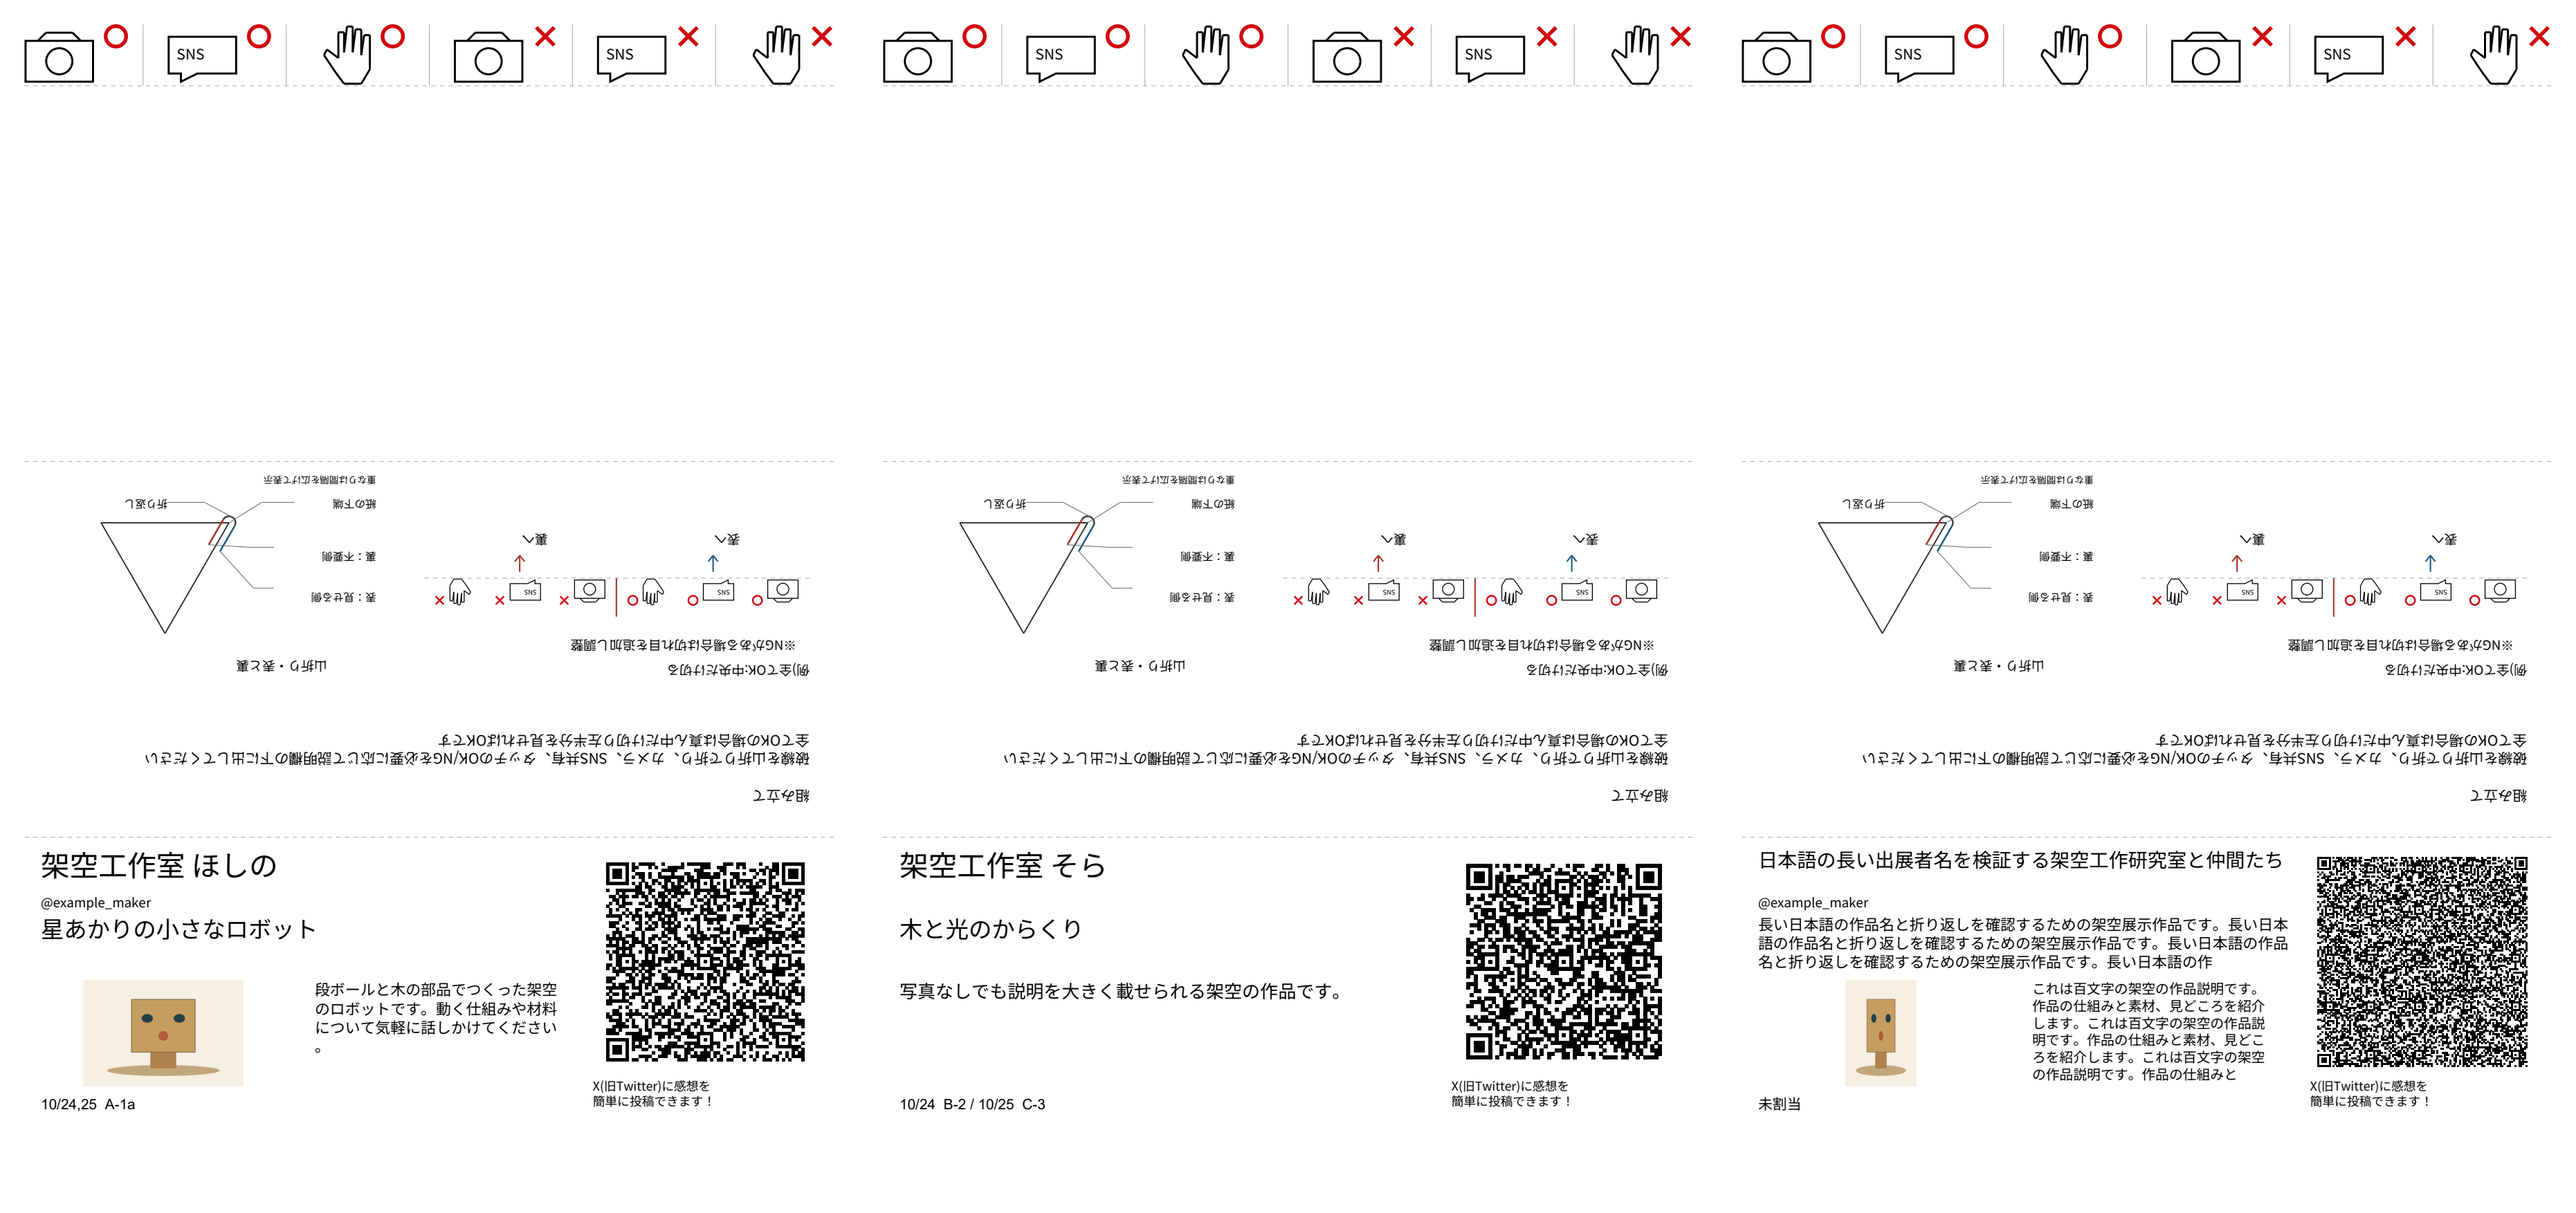
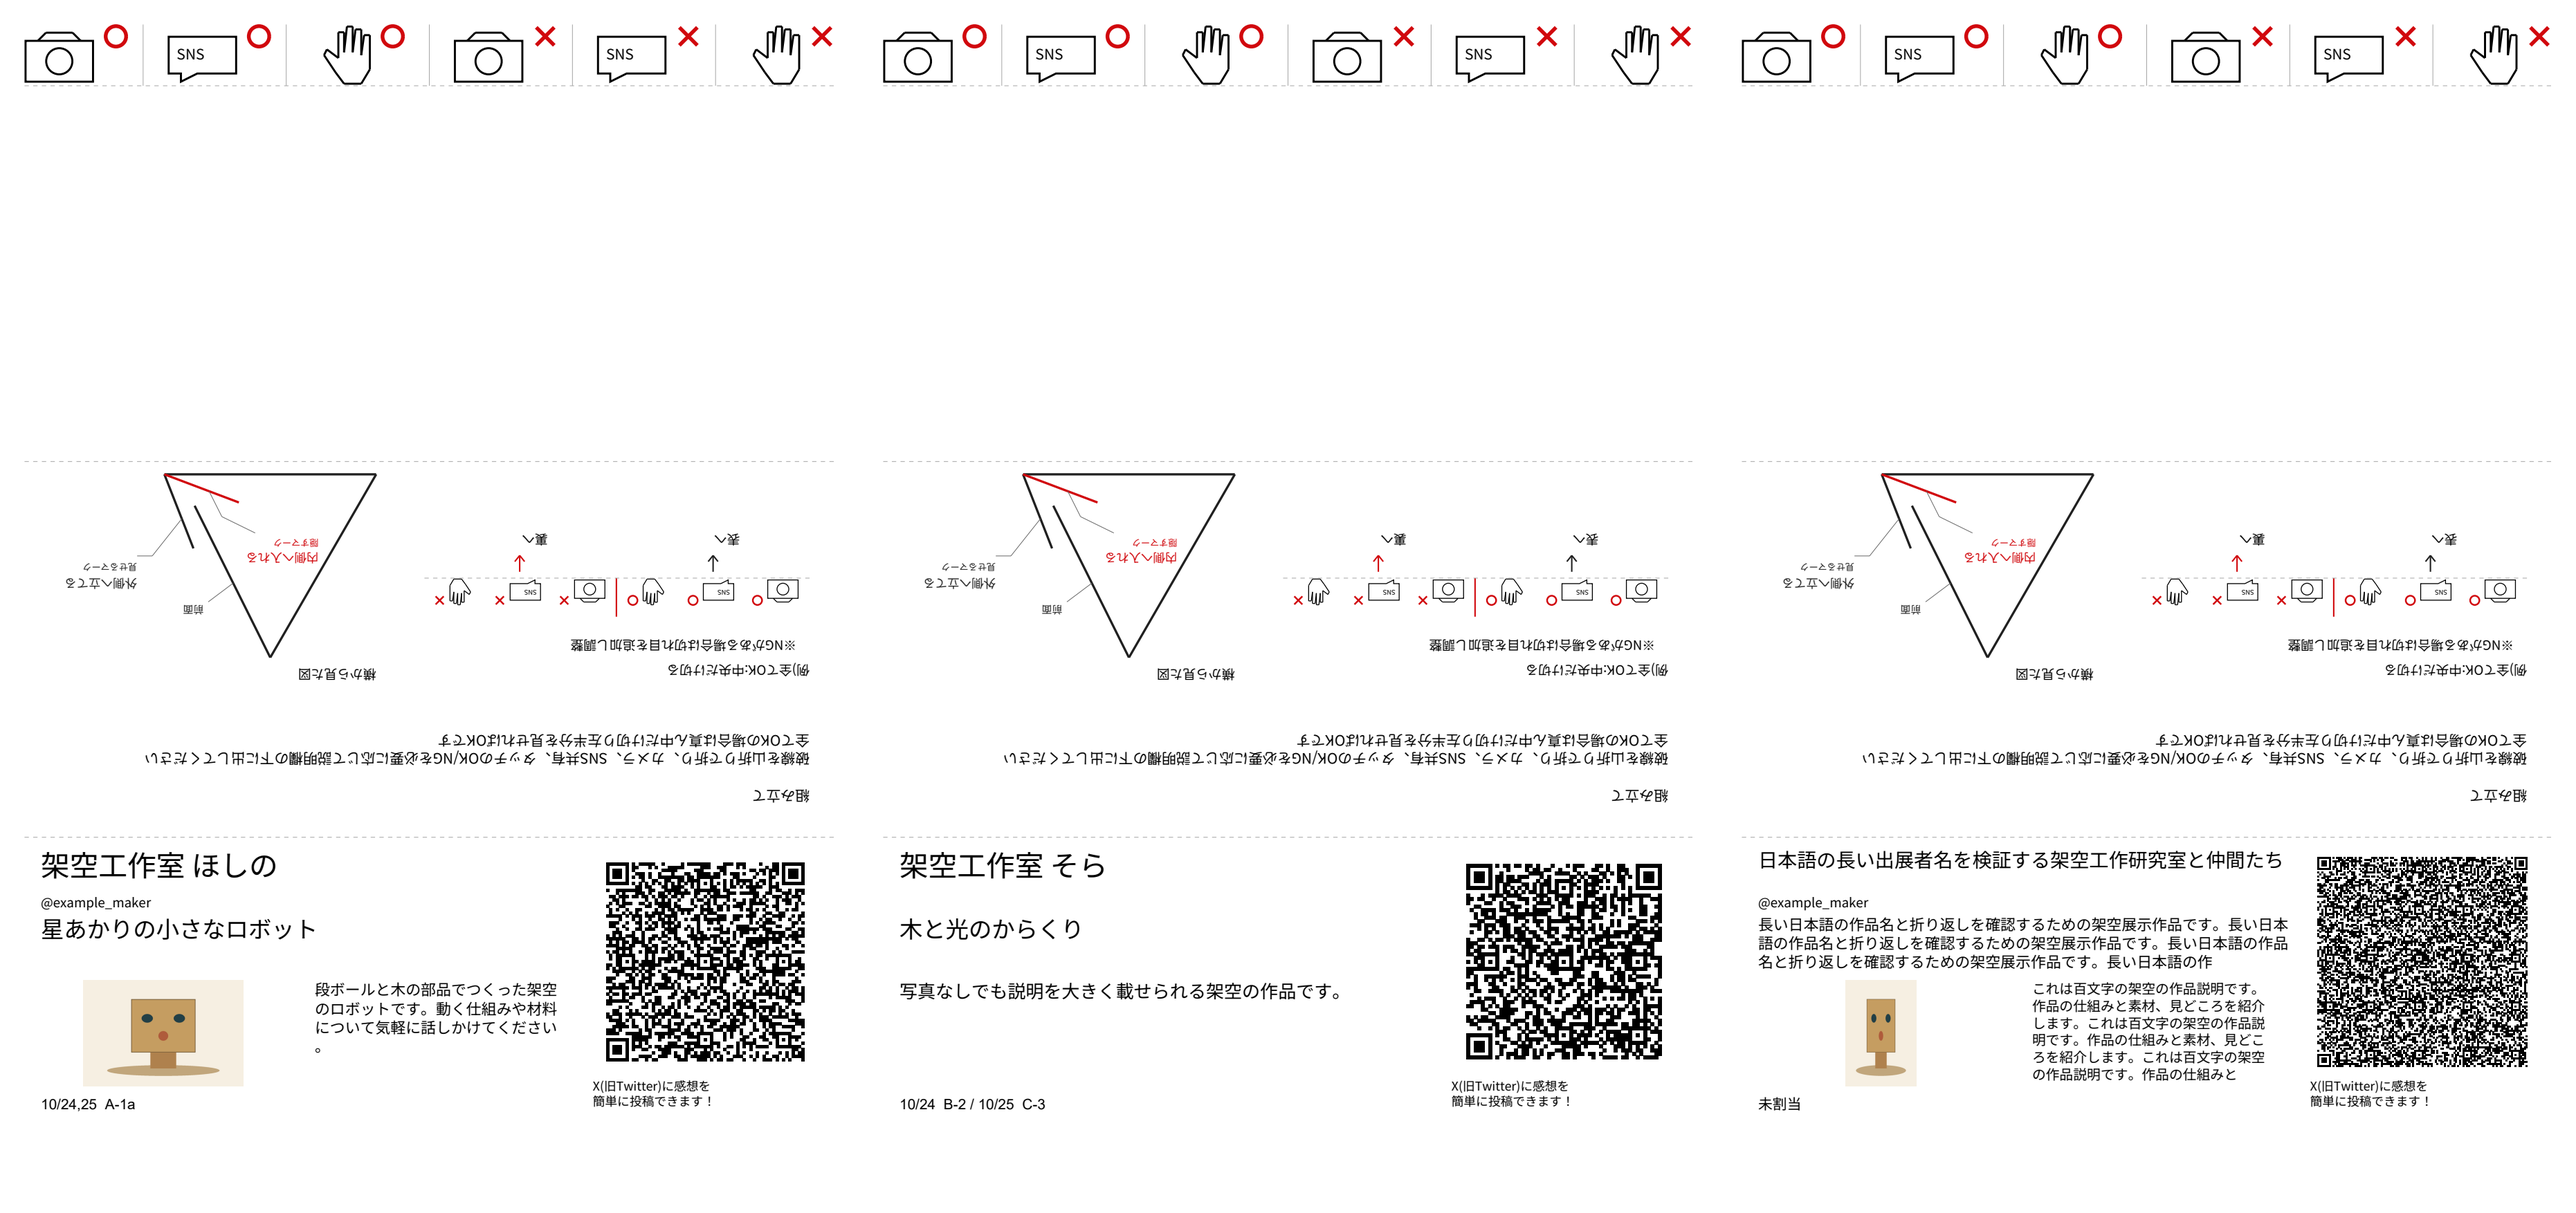
Use approved single-fold assembly diagram

diff --git a/event_cards.py b/event_cards.py
@@ -230,43 +230,41 @@ def assembly(d: Drawing):
     permission_band(d)
     c.restoreState()
     mark = lambda a,b,x,y,col,weight=1: d.line(a,b,x,y,color=col,weight=weight)
-    mark(59.25,167,59.25,176.45,RED)
+    mark(59.25,167,59.25,176.45,(.82,.03,.05))
     d.line(12,176.45,106.5,176.45,dashed=True)
-    for x,col in ((35.6,BLUE),(82.9,RED)):
+    for x,col in ((35.6,(.125,.125,.125)),(82.9,(.82,.03,.05))):
         mark(x,178,x,182,col)
         mark(x,182,x-1.2,180.5,col)
         mark(x,182,x+1.2,180.5,col)
     d.box("表へ",29,184,24,5,9,9)
     d.box("裏へ",76,184,24,5,9,9)
-    d.box("山折り・表と裏",130,153,68,5,9,9)
-    x,bottom,k = 154,190,.34
-    h = 92*math.sqrt(3)/2
-    top = bottom-h*k
-    ink,note = (.18,.18,.18),(.4,.4,.4)
-    mark(x,bottom,x+46*k,top,ink,.9)
-    mark(x+46*k,top,x+92*k,bottom,ink,.9)
-    mark(x+92*k,bottom,x,bottom,ink,.9)
-    gap,nx,ny = 1.6,-math.sqrt(3)/2,-.5
-    qx,qt = x+10.5*k,bottom-21*math.sqrt(3)/2*k
-    mark(x+nx*gap,bottom+ny*gap,qx+nx*gap,qt+ny*gap,BLUE,1.2)
-    mark(x-nx*gap,bottom-ny*gap,qx-nx*gap,qt-ny*gap,RED,1.2)
-    # Continuous solid U-return around the paper edge; layer spacing enlarged.
-    def point(angle):
-        return (x+gap*(nx*math.cos(angle)-.5*math.sin(angle)),bottom+gap*(ny*math.cos(angle)+math.sqrt(3)/2*math.sin(angle)))
-    for i in range(1,21):
-        p,q = point((i-1)*math.pi/20),point(i*math.pi/20)
-        mark(*p,*q,ink,1.2)
-    def leader(points):
-        for p,q in zip(points,points[1:]):mark(*p,*q,note,.3)
-    d.box("表：見せる側",118,170,29,5,7.5,7.5)
-    leader([(143,174),(148,174),(qx+nx*gap,qt+ny*gap)])
-    d.box("裏：不要側",118,180,29,5,7.5,7.5)
-    leader([(143,184),(149,184),(qx-nx*gap,qt-ny*gap)])
-    d.box("紙の下端",118,193,29,5,7.5,7.5)
-    leader([(138,195),(146,195),(x,bottom)])
-    d.box("折り返し",169,193,29,5,7.5,7.5)
-    leader([(169,195),(160,195),(x-gap*.5,bottom+gap*math.sqrt(3)/2)])
-    d.box("重なりは間隔を広げて表示",118,199,80,4,6.5,6.5)
+    # Approved side view: the selector alternatives share one bottom-right
+    # hinge; the front is a separate free end. No extra return or fold.
+    d.box("横から見た図",118,151,80,5,9,9)
+    k,apex = .074,860-350*math.sqrt(3)
+    ink,note,selector_red = (.125,.125,.125),(.408,.408,.408),(.82,.03,.05)
+    def point(p):return (118+(p[0]-450)*k,157+(p[1]-apex)*k)
+    def path(points,color,width):
+        for a,b in zip(points,points[1:]):
+            mark(*point(a),*point(b),color,width*k*mm)
+    def label(value,x,y,size,color=ink):
+        px,py=point((x,y))
+        c.setFont(JP,size*k*mm)
+        c.setFillColorRGB(*color)
+        c.drawString(px*mm,A4[1]-py*mm,value)
+    hinge,outside=(1150,860),(1054,615)
+    ratio=math.hypot(96,245)/math.hypot(246,93)
+    inside=(1150-246*ratio,860-93*ratio)
+    path([(1050,860-60*math.sqrt(3)),(800,apex),(450,860),hinge,outside],ink,7.5)
+    path([hinge,inside],selector_red,7.5)
+    label("前面",1020,425,34)
+    path([(1005,438),(922.5,500)],note,2)
+    label("外側へ立てる",1240,515,40)
+    label("見せるマーク",1240,565,30)
+    path([(1240,590),(1190,590),(1092.4,713)],note,2)
+    label("内側へ入れる",640,598,40,selector_red)
+    label("隠すマーク",640,645,30,selector_red)
+    path([(850,666),(960,720),(1002.3,804.2)],note,2)
     c.restoreState()
 
 
@@ -333,7 +331,7 @@ def generate(cards: list[Card], output: Path, template="tent", *, font=DEFAULT_F
     if template not in ("tent","badges") or not cards:
         raise ValueError("テンプレートと出力対象を確認してください")
     register_font(font)
-    fixed = "組み立て表へ裏へ山折り・表と裏表：見せる側裏：不要側紙の下端折り返し重なりは間隔を広げて表示"+"".join(ASSEMBLY_EXAMPLE)+"".join(ASSEMBLY_COPY)+QR_CAPTION
+    fixed = "組み立て表へ裏へ横から見た図前面外側へ立てる見せるマーク内側へ入れる隠すマーク"+"".join(ASSEMBLY_EXAMPLE)+"".join(ASSEMBLY_COPY)+QR_CAPTION
     for card in cards:
         check_glyphs(card.name+card.place+(card.title+card.description+fixed if template == "tent" else ""))
         if template == "tent" and not card.title.strip():

diff --git a/tools/verify_samples.py b/tools/verify_samples.py
@@ -35,7 +35,8 @@ for template,filename in [('tent','tent-cards.pdf'),('badges','neck-badges.pdf')
         if template=='tent':
             card=cards[i]
             for value in [card.name,card.title,card.description,card.place,*ASSEMBLY_COPY]:assert normalize(value) in normalize(text)
-            for value in [*ASSEMBLY_EXAMPLE,"紙の下端","折り返し"]:assert normalize(value) in normalize(text)
+            for value in [*ASSEMBLY_EXAMPLE,"横から見た図","外側へ立てる","内側へ入れる"]:assert normalize(value) in normalize(text)
+            for value in ["同じ折り目","重なりは間隔を広げて表示"]:assert value not in text
             assert '根元まで21mm' not in text
             # Inspect real PDF stroke coordinates, including transformed diagrams.
             paths=[];points=[]
@@ -46,6 +47,17 @@ for template,filename in [('tent','tent-cards.pdf'),('badges','neck-badges.pdf')
                     x,y=map(float,args);points.append((cm[0]*x+cm[2]*y+cm[4],cm[1]*x+cm[3]*y+cm[5]))
                 if op==b'S' and len(points)==2:paths.append(points[:]);points=[]
             page.extract_text(visitor_operand_before=visitor)
+            # Actual PDF coordinates for the approved open paper chain and
+            # same-hinge selector alternatives (PDF y is measured from bottom).
+            apex=860-350*math.sqrt(3)
+            rendered=lambda p:np.array([pt(210-(118+(p[0]-450)*.074)),pt(157+(p[1]-apex)*.074-21)])
+            hinge=np.array([1150.,860.]);outer=np.array([1054.,615.])
+            inner=hinge-np.array([246.,93.])*np.linalg.norm(outer-hinge)/math.hypot(246,93)
+            free=np.array([1050.,860-60*math.sqrt(3)])
+            segments=[(free,[800,apex]),([800,apex],[450,860]),([450,860],hinge),(hinge,outer),(hinge,inner)]
+            for a,b in segments:
+                wanted=np.array([rendered(a),rendered(b)])
+                assert sum(np.allclose(p,wanted,atol=.01) or np.allclose(p,wanted[::-1],atol=.01) for p in paths)==1
             horizontal=[p for p in paths if abs(p[0][1]-p[1][1])<.01 and abs(abs(p[0][0]-p[1][0])-pt(198))<.01]
             assert len(horizontal)==3
             assert all(any(abs(p[0][1]-pt(297-v))<.01 for p in horizontal) for v in [21,113,205])

diff --git a/tests/test_event_cards.py b/tests/test_event_cards.py
@@ -93,7 +93,8 @@ class EventCardsTests(unittest.TestCase):
             text="".join(pdf.pages[0].extract_text().split())
             for copy in ASSEMBLY_COPY:self.assertIn("".join(copy.split()),text)
             for copy in ASSEMBLY_EXAMPLE:self.assertIn("".join(copy.split()),text)
-            for copy in ["紙の下端","折り返し"]:self.assertIn(copy,text)
+            for copy in ["横から見た図","外側へ立てる","見せるマーク","内側へ入れる","隠すマーク"]:self.assertIn(copy,text)
+            for copy in ["同じ折り目","重なりは間隔を広げて表示"]:self.assertNotIn(copy,text)
             self.assertNotIn("根元まで21mm",text)
             with self.assertRaisesRegex(ValueError,"フォントにない文字"):
                 generate([Card("架空🤖","作品","",None)],folder/"bad.pdf")

diff --git a/README.md b/README.md
@@ -43,7 +43,7 @@ python generate_name_plates.py --template tent --csv samples/fictional.csv --out
 
 ![配布紙の組立説明](samples/assembly-preview.png)
 
-○×は全て赤い2.6pt太線とし、カメラ・SNSのマークを手と同程度の間隔にそろえています。例文は「例)全てOK:中央だけ切る」「　※NGがある場合は切れ目を追加し調整」です。断面図は紙の下端とU字の折り返しを分け、折り返しを実線、注釈を細線で表示します。層の間隔は判別のため拡大しています。実際の紙の折り破線と切断候補線は維持します。
+○×は全て赤い2.6pt太線とし、カメラ・SNSのマークを手と同程度の間隔にそろえています。例文は「例)全てOK:中央だけ切る」「　※NGがある場合は切れ目を追加し調整」です。断面図は前面の自由端を手前で止め、底面右端の一つの折り位置から、見せる片を外側へ立つ黒線、隠す片を内側へ入る赤線で示します。両状態は同じ長さで、前面との間隔を広げて表示します。実際の紙の折り破線と切断候補線は維持します。
 
 作品画像は縦横比を保ち、JPEGの回転情報を反映してからメタデータを除去します。未対応文字・画像エラー・文字の収まり不足は黙って省略せず中断します。新テンプレートは名前30文字、作品名100文字、作品説明100文字以内です。文字・QR・アイコンはベクター、QRは55mm角・quiet zone 4モジュール・誤り訂正M・最小モジュール0.3mmです。
 
